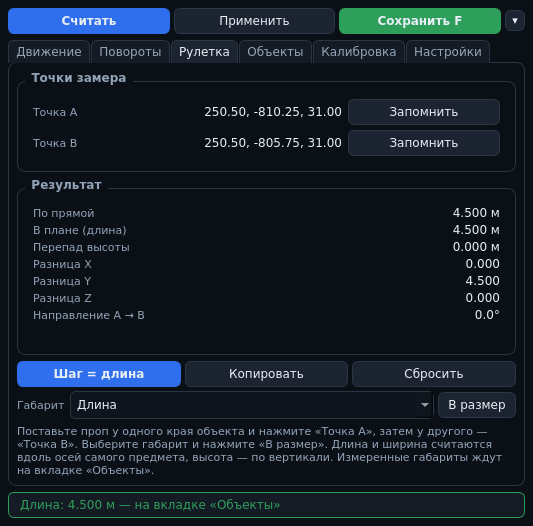
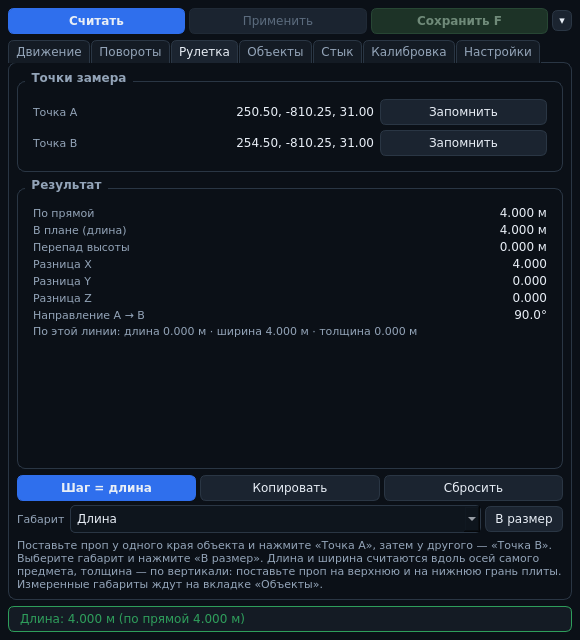
fix(measure): замер не пишется не в тот габарит
- measure: Span хранит углы пропа в обеих точках; длина и ширина считаются
  по углам точки A, поворот между замерами вызывает предупреждение
- measure: axis_hint — если по выбранному габариту выходит почти ноль, а между
  точками метры, запись блокируется и показываются все три проекции
- ui: строка «По этой линии: длина · ширина · толщина» в «Рулетке»;
  «В размер» больше не срабатывает дважды
- docs: README, CHANGELOG 2.7.2, снимок «Рулетки»
- 320 тестов, покрытие 88 %

Changed region(s): [[0.0, 0.0, 0.9906, 1.0], [0.3002, 0.4867, 0.5103, 0.5475], [0.5704, 0.4867, 0.7205, 0.5475]]

diff --git a/lsp_overlay/domain/measure.py b/lsp_overlay/domain/measure.py
@@ -13,6 +13,10 @@ from lsp_overlay.domain.pose import Pose
 
 FULL_TURN = 360.0
 MIN_MEANINGFUL_SPAN = 0.001
+SMALL_DIMENSION = 0.02
+SIGNIFICANT_DISTANCE = 0.5
+ROTATION_TOLERANCE = 0.5
+ZERO_ANGLES: Vec3 = (0.0, 0.0, 0.0)
 
 
 class MeasureSlot(StrEnum):
@@ -37,11 +41,31 @@ class Span:
 
     point_a: Vec3
     point_b: Vec3
+    angles_a: Vec3 = ZERO_ANGLES
+    angles_b: Vec3 = ZERO_ANGLES
 
     @classmethod
     def between(cls, first: Pose, second: Pose) -> Span:
-        """Строит замер по двум позам (углы не важны, берётся позиция)."""
-        return cls(point_a=first.position, point_b=second.position)
+        """Строит замер по двум позам: позиции и углы пропа в каждой точке."""
+        return cls(
+            point_a=first.position,
+            point_b=second.position,
+            angles_a=first.angles,
+            angles_b=second.angles,
+        )
+
+    @property
+    def angles(self) -> Vec3:
+        """Углы пропа, по которым считаются длина и ширина — углы точки ``A``."""
+        return self.angles_a
+
+    @property
+    def prop_was_rotated(self) -> bool:
+        """Проп поворачивали между замерами — оси отсчёта могли измениться."""
+        return any(
+            abs(first - second) > ROTATION_TOLERANCE
+            for first, second in zip(self.angles_a, self.angles_b, strict=True)
+        )
 
     @property
     def delta(self) -> Vec3:
@@ -90,7 +114,7 @@ class Span:
         """Смещение в осях предмета: ``X`` вправо, ``Y`` вперёд, ``Z`` вверх."""
         return inverse_transform(self.delta, rotation_matrix(*angles))
 
-    def dimension_value(self, dimension: Dimension, angles: Vec3) -> float:
+    def dimension_value(self, dimension: Dimension, angles: Vec3 | None = None) -> float:
         """Длина предмета по одному габариту.
 
         ``Длина`` и ``Ширина`` берутся вдоль локальных осей предмета (поэтому поворот
@@ -100,7 +124,44 @@ class Span:
         if dimension is Dimension.THICKNESS:
             return self.vertical
         index = 1 if dimension is Dimension.LENGTH else 0
-        return abs(self.local_offsets(angles)[index])
+        reference = self.angles if angles is None else angles
+        return abs(self.local_offsets(reference)[index])
+
+    def projections(self) -> dict[Dimension, float]:
+        """Сколько выйдет по каждому габариту, если записать этот замер."""
+        offsets = self.local_offsets(self.angles)
+        return {
+            Dimension.LENGTH: abs(offsets[1]),
+            Dimension.WIDTH: abs(offsets[0]),
+            Dimension.THICKNESS: self.vertical,
+        }
+
+    def axis_hint(self, dimension: Dimension) -> str | None:
+        """Предупреждение, если замер не похож на выбранный габарит.
+
+        Две точки на разных краях стены легко измерить не по той оси: тогда проекция
+        на нужный габарит почти нулевая, хотя между точками метры. Молча записывать
+        такой «ноль» нельзя — из него потом считается стык.
+        """
+        if self.is_degenerate:
+            return None
+        if self.prop_was_rotated:
+            return (
+                "Проп поворачивали между замерами: длина и ширина считаются по углам "
+                "точки A. Поставьте обе точки при одном угле пропа."
+            )
+        value = self.dimension_value(dimension)
+        if value >= SMALL_DIMENSION or self.distance < SIGNIFICANT_DISTANCE:
+            return None
+        projections = self.projections()
+        line = " · ".join(
+            f"{other.label.lower()} {projections[other]:.2f} м" for other in Dimension
+        )
+        return (
+            f"Габарит «{dimension.label}»: {value:.3f} м, а между точками {self.distance:.2f} м — "
+            f"замер идёт почти вдоль другой оси. По этой линии: {line}. "
+            "Проверьте, какой габарит выбран, и угол пропа (RZ)."
+        )
 
     def length_for_step(self) -> float:
         """Шаг для стыковки вплотную: длина в плане, а если она нулевая — по прямой."""

diff --git a/lsp_overlay/ui/tabs/measure_tab.py b/lsp_overlay/ui/tabs/measure_tab.py
@@ -99,7 +99,9 @@ class MeasureTab(QWidget):
             value.setAlignment(Qt.AlignmentFlag.AlignRight | Qt.AlignmentFlag.AlignVCenter)
             self._value_labels[key] = value
             grid.addWidget(value, row, 1)
-        grid.setRowStretch(len(rows), 1)
+        self.lbl_projection = make_label(EMPTY_TEXT, muted=True, wrap=True)
+        grid.addWidget(self.lbl_projection, len(rows), 0, 1, 2)
+        grid.setRowStretch(len(rows) + 1, 1)
         return group
 
     def _build_actions(self) -> QWidget:
@@ -158,10 +160,16 @@ class MeasureTab(QWidget):
         self.status_message.emit("Замер скопирован", "success")
 
     # ------------------------------------------------------------------- вывод
-    def update_tape(self, points: dict[MeasureSlot, Pose], span: Span | None) -> None:
-        """Показывает сохранённые точки и посчитанный по ним замер."""
+    def update_tape(
+        self,
+        points: dict[MeasureSlot, Pose],
+        span: Span | None,
+        projections: dict[Dimension, float] | None = None,
+    ) -> None:
+        """Показывает сохранённые точки, посчитанный замер и габариты по этой линии."""
         self._points = dict(points)
         self._span = span
+        self._update_projection(projections)
         for slot, label in self._point_labels.items():
             pose = self._points.get(slot)
             label.setText(EMPTY_TEXT if pose is None else _describe_point(pose))
@@ -187,6 +195,20 @@ class MeasureTab(QWidget):
         }
         for key, text in values.items():
             self._value_labels[key].setText(text)
+
+    def _update_projection(self, projections: dict[Dimension, float] | None) -> None:
+        if projections is None:
+            self.lbl_projection.setText("По этой линии: —")
+            return
+        parts = " · ".join(
+            f"{dimension.label.lower()} {format_length(projections[dimension], 3)} м"
+            for dimension in Dimension
+        )
+        self.lbl_projection.setText(f"По этой линии: {parts}")
+
+    def projection_text(self) -> str:
+        """Строка «по этой линии» (для подсказок и тестов)."""
+        return self.lbl_projection.text()
 
     def value_text(self, key: str) -> str:
         """Текст строки результата (для тестов и подсказок)."""

diff --git a/tests/test_measure.py b/tests/test_measure.py
@@ -31,6 +31,47 @@ def test_span_keeps_vertical_part_apart() -> None:
     assert span.distance == pytest.approx(2.5)
 
 
+def test_projections_show_all_three_dimensions() -> None:
+    span = Span.between(START, Pose(x=102.0, y=204.0, z=30.4))
+    projections = span.projections()
+    assert projections[Dimension.LENGTH] == pytest.approx(4.0)
+    assert projections[Dimension.WIDTH] == pytest.approx(2.0)
+    assert projections[Dimension.THICKNESS] == pytest.approx(0.4)
+
+
+def test_axis_hint_stops_a_measurement_along_another_axis() -> None:
+    """Случай с игры: 2.68 м между точками, а «ширина» вышла 0.007 м."""
+    first = Pose(x=-1851.14, y=419.77, z=128.31, rz=70.0)
+    second = Pose(x=-1848.62, y=418.86, z=128.31, rz=70.0)
+    span = Span.between(first, second)
+    assert span.dimension_value(Dimension.WIDTH) < 0.02
+    hint = span.axis_hint(Dimension.WIDTH)
+    assert hint is not None
+    assert "другой оси" in hint
+    assert "Ширина" in hint
+    assert span.axis_hint(Dimension.LENGTH) is None
+
+
+def test_axis_hint_is_silent_for_a_correct_measurement() -> None:
+    span = Span.between(START, Pose(x=101.5, y=200.0, z=30.0, rz=0.0))
+    assert span.dimension_value(Dimension.WIDTH) == pytest.approx(1.5)
+    assert span.axis_hint(Dimension.WIDTH) is None
+
+
+def test_axis_hint_notices_prop_was_rotated() -> None:
+    first = Pose(x=100.0, y=200.0, z=30.0, rz=0.0)
+    second = Pose(x=100.0, y=204.0, z=30.0, rz=45.0)
+    span = Span.between(first, second)
+    hint = span.axis_hint(Dimension.LENGTH)
+    assert hint is not None
+    assert "поворачивали" in hint
+
+
+def test_small_distances_are_not_warned_about() -> None:
+    span = Span.between(START, Pose(x=100.0, y=200.1, z=30.0))
+    assert span.axis_hint(Dimension.WIDTH) is None
+
+
 def test_thickness_is_measured_vertically() -> None:
     span = Span.between(START, Pose(x=100.0, y=200.0, z=30.4))
     assert span.dimension_value(Dimension.THICKNESS, (0.0, 0.0, 0.0)) == pytest.approx(0.4)

diff --git a/tests/test_session.py b/tests/test_session.py
@@ -5,11 +5,12 @@ from lsp_overlay.application.errors import ApplyError, PanelUnavailableError
 from lsp_overlay.application.session import MappingSession
 from lsp_overlay.application.writer import FieldWriter
 from lsp_overlay.config import Settings
-from lsp_overlay.domain.catalog import ObjectSpec
+from lsp_overlay.domain.catalog import Dimension, ObjectSpec
 from lsp_overlay.domain.directions import DiagonalMode, Direction
 from lsp_overlay.domain.errors import JumpTooLargeError
 from lsp_overlay.domain.fields import FieldKey
 from lsp_overlay.domain.join import JoinRequest, JoinScheme, JoinSide
+from lsp_overlay.domain.measure import MeasureSlot
 from lsp_overlay.domain.pose import Axis, Pose
 
 from fakes import FakeGamePanel
@@ -204,3 +205,17 @@ def test_place_join_stops_too_long_jump() -> None:
     long_wall = ObjectSpec(name="Длинная", length=60.0, width=0.2, thickness=3.0)
     with pytest.raises(JumpTooLargeError):
         session.place_join(long_wall, long_wall, JoinRequest())
+
+
+def test_session_reports_wrong_axis_before_recording() -> None:
+    """Проп переставили вдоль его длины, а записывают в «ширину» — предупреждаем."""
+    session, _panel = make_session(Pose(x=0.0, y=0.0, z=0.0, rz=70.0))
+    session.remember_point(MeasureSlot.FIRST)
+    for _ in range(27):
+        session.move(Direction.NORTH, 0.1)
+    session.remember_point(MeasureSlot.SECOND)
+    issue = session.measurement_issue(Dimension.WIDTH)
+    assert issue is not None
+    assert "другой оси" in issue
+    assert session.measurement(Dimension.LENGTH) == pytest.approx(2.7, abs=0.01)
+    assert session.measurement_issue(Dimension.LENGTH) is None

diff --git a/tests/test_ui.py b/tests/test_ui.py
@@ -262,6 +262,26 @@ def test_height_is_editable_through_z_field(tmp_path: Path, qt_app: object) -> N
     assert panel.pose.z == pytest.approx(31.75)
 
 
+def test_measurement_along_wrong_axis_is_not_recorded(tmp_path: Path, qt_app: object) -> None:
+    window, panel = make_window(tmp_path, qt_app, pose=Pose(x=0.0, y=0.0, z=0.0, rz=70.0))
+    window.action_remember_point("a")
+    panel.pose = Pose(x=2.52, y=-0.91, z=0.0, rz=70.0)
+    window.action_remember_point("b")
+    window.action_measure_dimension("width")
+    assert "другой оси" in window.lbl_status.text()
+    assert window.objects_tab.dimension_text(Dimension.WIDTH) == "—"
+
+
+def test_measure_tab_shows_dimensions_for_the_line(tmp_path: Path, qt_app: object) -> None:
+    window, panel = make_window(tmp_path, qt_app)
+    window.action_remember_point("a")
+    panel.pose = Pose(x=252.5, y=-806.25, z=31.0)
+    window.action_remember_point("b")
+    text = window.measure_tab.projection_text()
+    assert "длина 4.000 м" in text
+    assert "ширина 2.000 м" in text
+
+
 def test_diagnostics_reports_success(tmp_path: Path, qt_app: object) -> None:
     window, _panel = make_window(tmp_path, qt_app)
     window.calibration_tab.diagnostics_requested.emit()

diff --git a/lsp_overlay/ui/overlay.py b/lsp_overlay/ui/overlay.py
@@ -501,6 +501,10 @@ class OverlayWindow(QWidget):
     def action_measure_dimension(self, dimension: str) -> None:
         """Записывает текущий замер в выбранный габарит предмета."""
         target = Dimension(dimension)
+        issue = self._session.measurement_issue(target)
+        if issue is not None:
+            self._set_status(issue, "error")
+            return
         value = self._session.record_dimension(target)
         if value is None:
             self._set_status("Сначала сделайте два разных замера", "warning")
@@ -689,7 +693,9 @@ class OverlayWindow(QWidget):
         self.btn_apply_commit.setEnabled(pending > 0)
 
     def _refresh_tape(self) -> None:
-        self.measure_tab.update_tape(self._session.tape_points(), self._session.span)
+        self.measure_tab.update_tape(
+            self._session.tape_points(), self._session.span, self._session.projections()
+        )
 
     def _refresh_objects(self) -> None:
         self.objects_tab.set_pending(self._session.pending_dimensions)

diff --git a/lsp_overlay/application/session.py b/lsp_overlay/application/session.py
@@ -125,7 +125,21 @@ class MappingSession:
         span = self._tape.span()
         if span is None or span.is_degenerate:
             return None
-        return round(span.dimension_value(dimension, self._pose.angles), 3)
+        return round(span.dimension_value(dimension), 3)
+
+    def measurement_issue(self, dimension: Dimension) -> str | None:
+        """Почему замер не стоит записывать в этот габарит (например, ось не та)."""
+        span = self._tape.span()
+        if span is None or span.is_degenerate:
+            return None
+        return span.axis_hint(dimension)
+
+    def projections(self) -> dict[Dimension, float] | None:
+        """Что выйдет по каждому габариту, если записать замер как есть."""
+        span = self._tape.span()
+        if span is None or span.is_degenerate:
+            return None
+        return span.projections()
 
     @property
     def span(self) -> Span | None:

diff --git a/lsp_overlay/__init__.py b/lsp_overlay/__init__.py
@@ -2,5 +2,5 @@
 
 from __future__ import annotations
 
-__version__ = "2.7.1"
+__version__ = "2.7.2"
 __all__ = ["__version__"]

diff --git a/README.md b/README.md
@@ -169,6 +169,14 @@ py -3.12 -m venv .venv
 4. **«Шаг = длина»** подставляет длину в плане в шаг сдвига: теперь `↑` отставляет копию
    ровно на длину объекта, и следующий проп встаёт вплотную без зазоров.
 
+Под таблицей результата есть строка **«По этой линии: длина · ширина · толщина»** — видно,
+каким габаритом выйдет текущий замер. Если выбран не тот габарит, запись блокируется
+с объяснением: например, «Габарит «Ширина»: 0.007 м, а между точками 2.68 м — замер идёт
+почти вдоль другой оси. По этой линии: длина 2.68 м · ширина 0.01 м · толщина 0.00 м».
+Так в таблицу предметов не попадает ноль, из которого потом считается стык. Заодно
+проверяется, что проп не поворачивали между точками `A` и `B`: длина и ширина считаются
+по углам точки `A`.
+
 Замеры живут до перезапуска оверлея (шаг при этом сохраняется). **«Копировать»** кладёт
 строку замера в буфер обмена — удобно вставить в чат или заметку.
 
@@ -315,7 +323,7 @@ docs/adr/                  архитектурные решения
 ## Тесты и проверки
 
 ```
-.venv\Scripts\python -m pytest            # 312 тестов
+.venv\Scripts\python -m pytest            # 320 тестов
 .venv\Scripts\python -m pytest --cov=lsp_overlay
 ruff check . && mypy lsp_overlay         # линтер и типы
 ```

diff --git a/CHANGELOG.md b/CHANGELOG.md
@@ -3,6 +3,20 @@
 Формат — [Keep a Changelog](https://keepachangelog.com/ru/1.1.0/),
 версии — [SemVer](https://semver.org/lang/ru/).
 
+## [2.7.2] — 2026-11-24
+
+### Исправлено
+
+- **Замер больше не записывается «в не тот габарит».** Если между точками 2.68 м, а по
+  выбранному габариту выходит 0.007 м, значит замер идёт вдоль другой оси: запись
+  блокируется, а в строке состояния видно, какие получились длина, ширина и толщина.
+  Раньше в таблицу предметов молча попадал почти ноль, и стык по нему считался неверно.
+- Длина и ширина считаются по углам пропа в точке `A` (раньше — по текущим углам, даже если
+  проп повернули после замеров); если углы в точках различаются, оверлей предупреждает.
+- В «Рулетке» появилась строка **«По этой линии: длина · ширина · толщина»** — сразу видно,
+  каким габаритом выйдет замер.
+- «В размер» срабатывала дважды (дублирующий сигнал) — теперь один раз.
+
 ## [2.7.1] — 2026-11-24
 
 ### Исправлено
